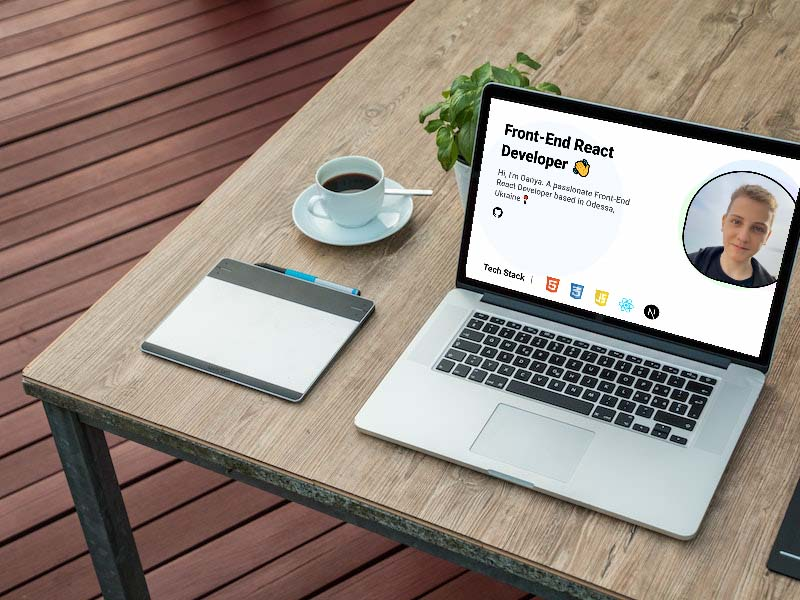
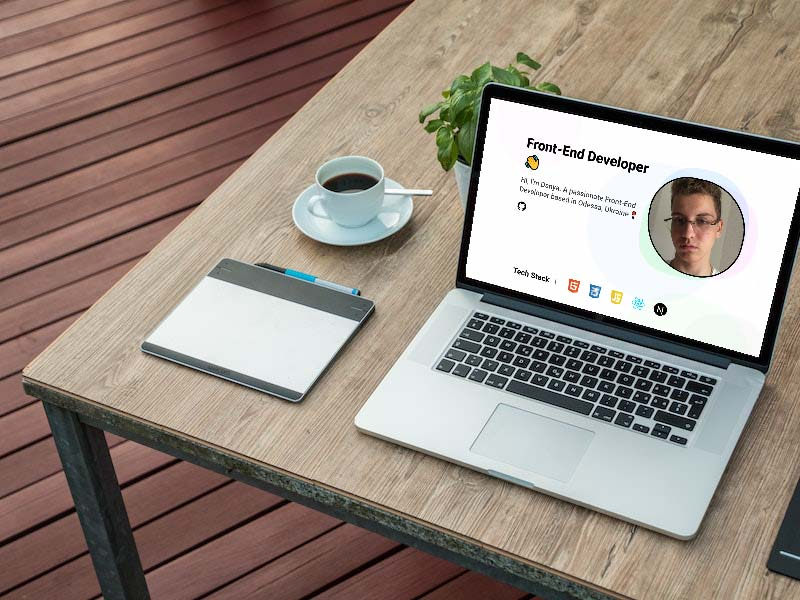
commit

Changed region(s): [[0.625, 0.21, 1.0, 0.48], [0.625, 0.45, 0.8438, 0.54]]

diff --git a/components/about/About.jsx b/components/about/About.jsx
@@ -20,7 +20,7 @@ function About() {
 					<h2>A dedicated Front-end Developer based in Odessa, <span style={{display: 'inline-flex' }}>Ukraine 📍</span></h2>
 					<br />
 					<p>
-						As a Junior Front-End Developer, I possess an impressive arsenal of skills in HTML, CSS, JavaScript,
+						As a Front-End Developer, I possess an impressive arsenal of skills in HTML, CSS, JavaScript,
 						React and Next JS. I excel in designing and maintaining responsive websites that offer
 						a smooth user experience. My expertise lies in crafting dynamic, engaging interfaces through writing
 						clean and optimized code and utilizing cutting-edge development tools and techniques.
